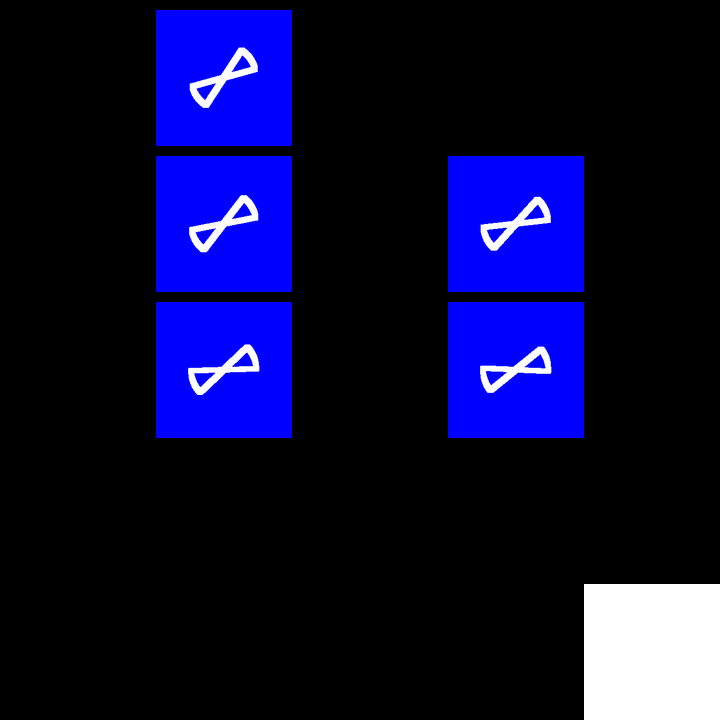
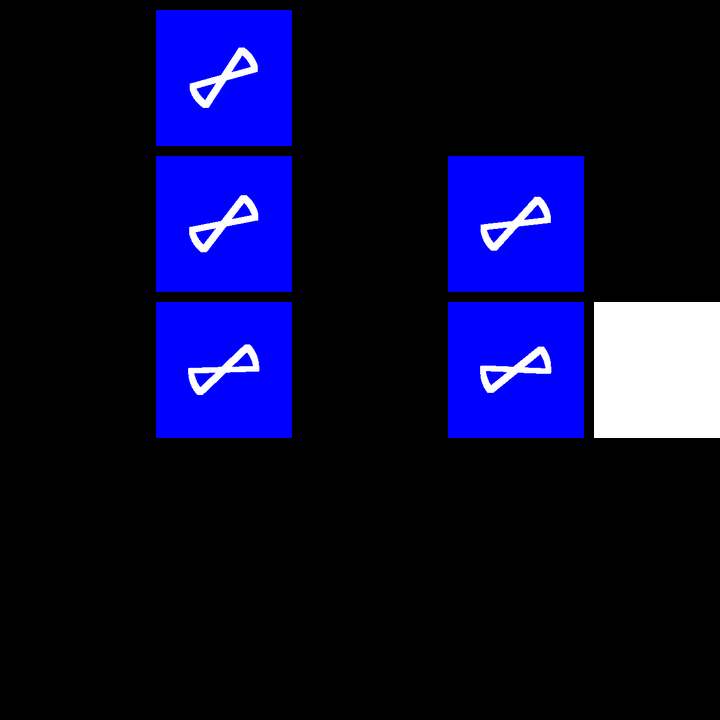
manual tweaking, use this for the final project!

Changed region(s): [[0.7944, 0.7944, 1.0, 1.0], [0.825, 0.3972, 1.0, 0.6111]]

diff --git a/DisplayDriver/NewGameGL.py b/DisplayDriver/NewGameGL.py
@@ -44,7 +44,7 @@ def make_grid_helper(rows, cols, box_width, box_height, spacing, filenames, imag
     else:
         img = Image.open("black.png")
     img = img.resize((box_width, box_height), Image.ANTIALIAS)
-    tup = (4*(box_width+spacing), 4*(box_height+spacing))
+    tup = (4*(box_width+spacing) + spacing, 2*(box_height+spacing) + spacing)
     canvas.paste(img, tup)
     canvas.save("%s.png" % image_name)
 
@@ -155,5 +155,5 @@ class Game(pyglet.window.Window):
 
 if __name__ == "__main__":
     window = Game()
-    window.set_location((1920-window_width)//2, (1080-window_height)//2)
+    window.set_location((1920-window_width)//2-25, (1080-window_height)//2+110)
     pyglet.app.run()
